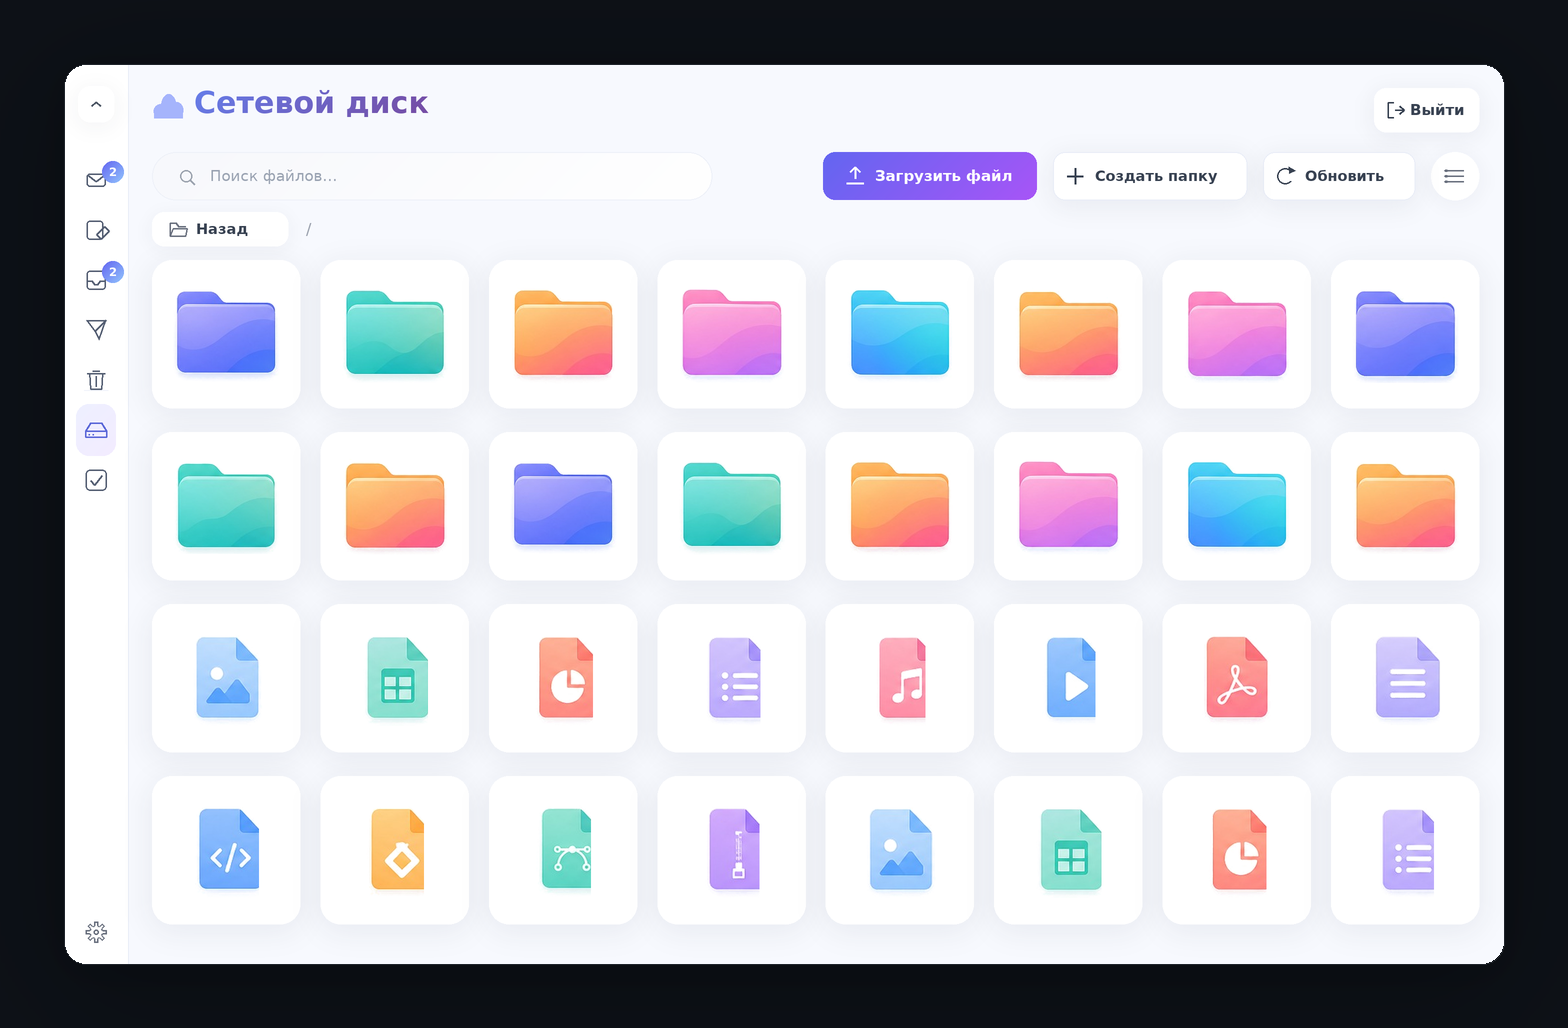
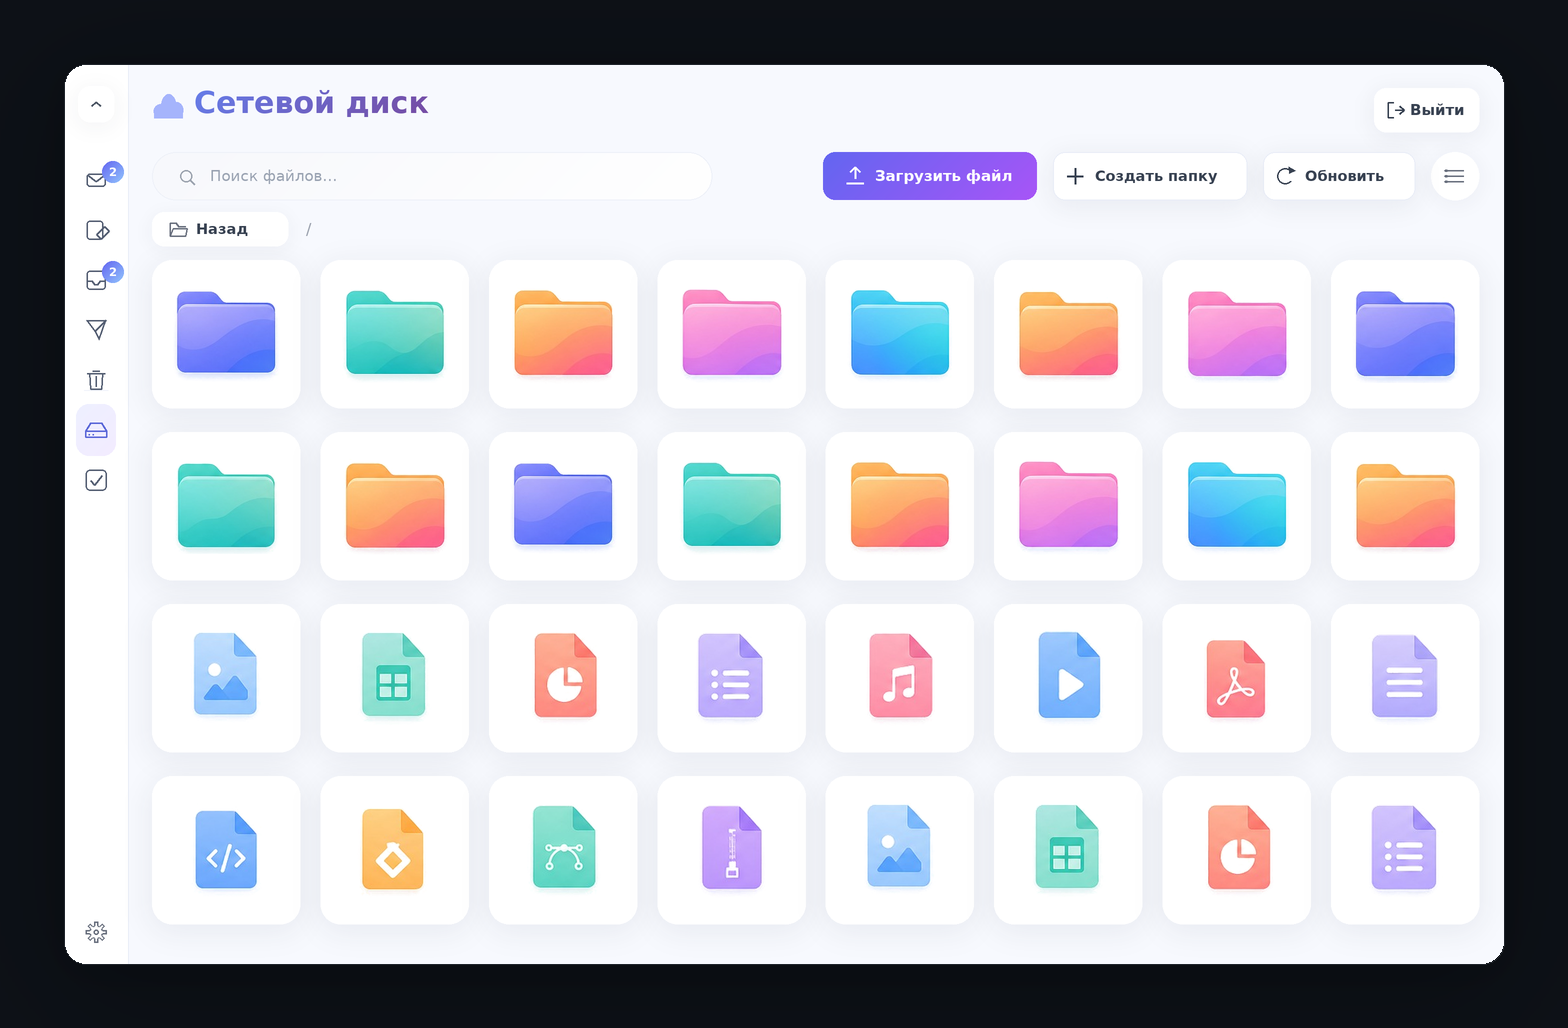
docs: исправить обрезку иконок файлов в screen-drive.png

diff --git a/docs/images/make-screens.py b/docs/images/make-screens.py
@@ -853,18 +853,18 @@ FOLDER_BOXES = [
 ]
 
 FILE_BOXES = [
-    (386, 608, 471, 726),
-    (588, 608, 667, 726),
-    (794, 608, 863, 726),
-    (993, 608, 1059, 726),
-    (1196, 608, 1255, 726),
-    (1388, 608, 1451, 726),
-    (387, 779, 471, 893),
-    (587, 779, 667, 893),
-    (788, 779, 863, 893),
-    (993, 779, 1059, 893),
-    (1193, 779, 1255, 895),
-    (1389, 779, 1451, 893),
+    (380, 608, 480, 732),
+    (579, 608, 683, 732),
+    (784, 608, 882, 732),
+    (989, 608, 1088, 732),
+    (1187, 608, 1286, 732),
+    (1380, 608, 1474, 730),
+    (384, 772, 479, 899),
+    (576, 774, 679, 899),
+    (783, 772, 880, 899),
+    (987, 772, 1087, 899),
+    (1184, 776, 1285, 900),
+    (1376, 778, 1473, 899),
 ]
 
 _folder_sprites = None
@@ -878,7 +878,7 @@ def _get_drive_sprites():
 
     raw = Image.open(os.path.join(HERE, 'raw-drive.jpg')).convert('RGB')
 
-    def make_sprite(box):
+    def make_sprite(box, trim=False):
         pad = 6
         crop = raw.crop((box[0] - pad, box[1] - pad, box[2] + pad, box[3] + pad))
         w, h = crop.size
@@ -894,10 +894,14 @@ def _get_drive_sprites():
                 else:
                     alpha = 255
                 rgba.putpixel((x, y), (r, g, b, alpha))
+        if trim:
+            bbox = rgba.getbbox()
+            if bbox:
+                rgba = rgba.crop(bbox)
         return rgba
 
     _folder_sprites = [make_sprite(b) for b in FOLDER_BOXES]
-    _file_sprites = [make_sprite(b) for b in FILE_BOXES]
+    _file_sprites = [make_sprite(b, trim=True) for b in FILE_BOXES]
     return _folder_sprites, _file_sprites
 
 
